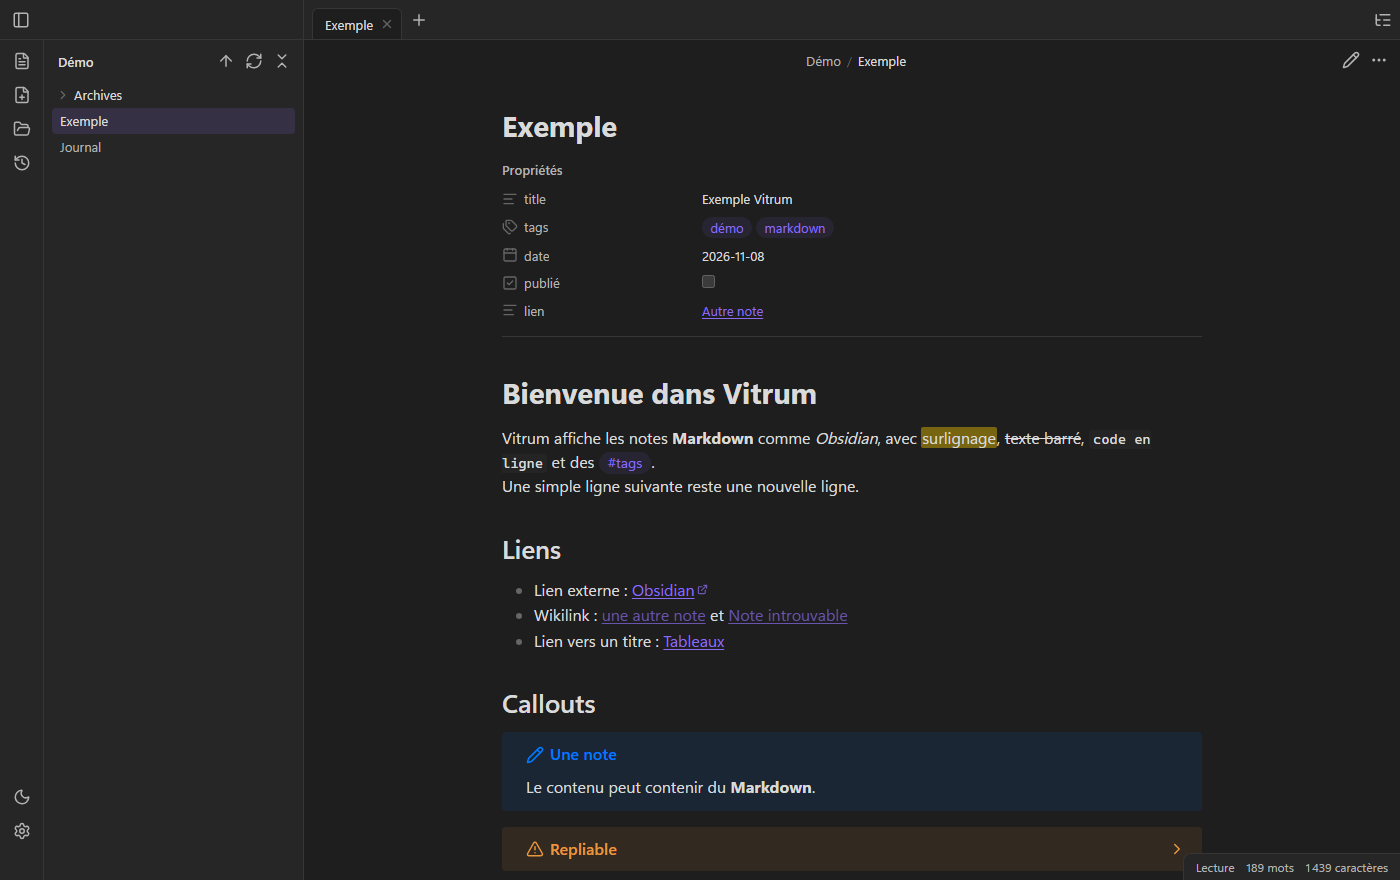
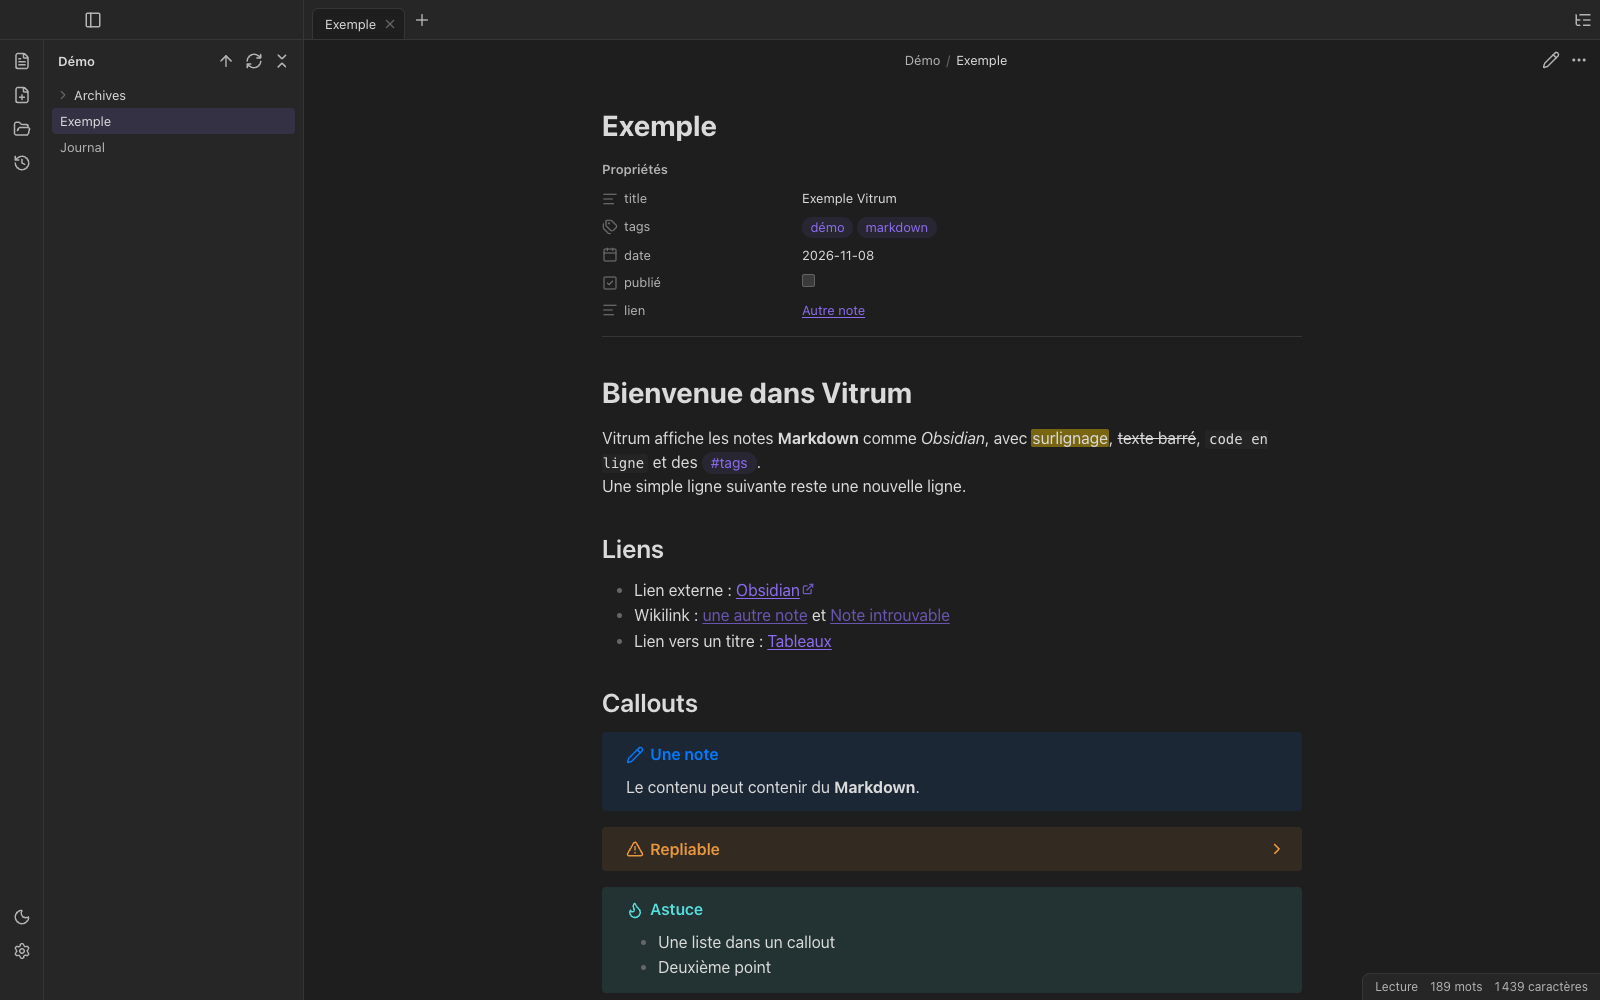
docs: captures du mode édition, du rendu et du thème clair ; mention de Dynalist

diff --git a/README.md b/README.md
@@ -6,7 +6,7 @@ Vitrum ouvre n'importe quel fichier `.md` du disque, sans coffre ni import : un 
 
 *Vitrum* : « verre » en latin, clin d'œil à l'obsidienne, un verre volcanique.
 
-> Projet indépendant, sans lien avec Obsidian.
+> Projet indépendant, sans lien avec Obsidian. Obsidian est un logiciel de Dynalist Inc.
 
 ![Vitrum en mode lecture : panneau des fichiers à gauche, note de démonstration avec ses propriétés, ses liens et ses callouts](docs/captures/lecture.png)
 
@@ -23,6 +23,10 @@ Vitrum ouvre n'importe quel fichier `.md` du disque, sans coffre ni import : un 
 - **[Télécharger Vitrum pour Mac](https://github.com/venaciteam/vitrum/releases/latest/download/Vitrum-macOS.dmg)** : ouvrir le `.dmg` et glisser Vitrum dans **Applications**.
 
 Vitrum n'est pas signé : le message du système au premier lancement et les étapes sont dans [Installation](#installation). Toutes les versions : [publications](../../releases).
+
+| Mode édition | Tâches, code, diagrammes | Thème clair |
+| --- | --- | --- |
+| ![Mode édition : le Markdown brut de la note, coloré, avec son front matter](docs/captures/edition.png) | ![Mode lecture : tâches cochables, tableau, code coloré, diagramme Mermaid et formule](docs/captures/rendu.png) | ![Mode lecture en thème clair](docs/captures/clair.png) |
 
 ## Ce que fait Vitrum
 
